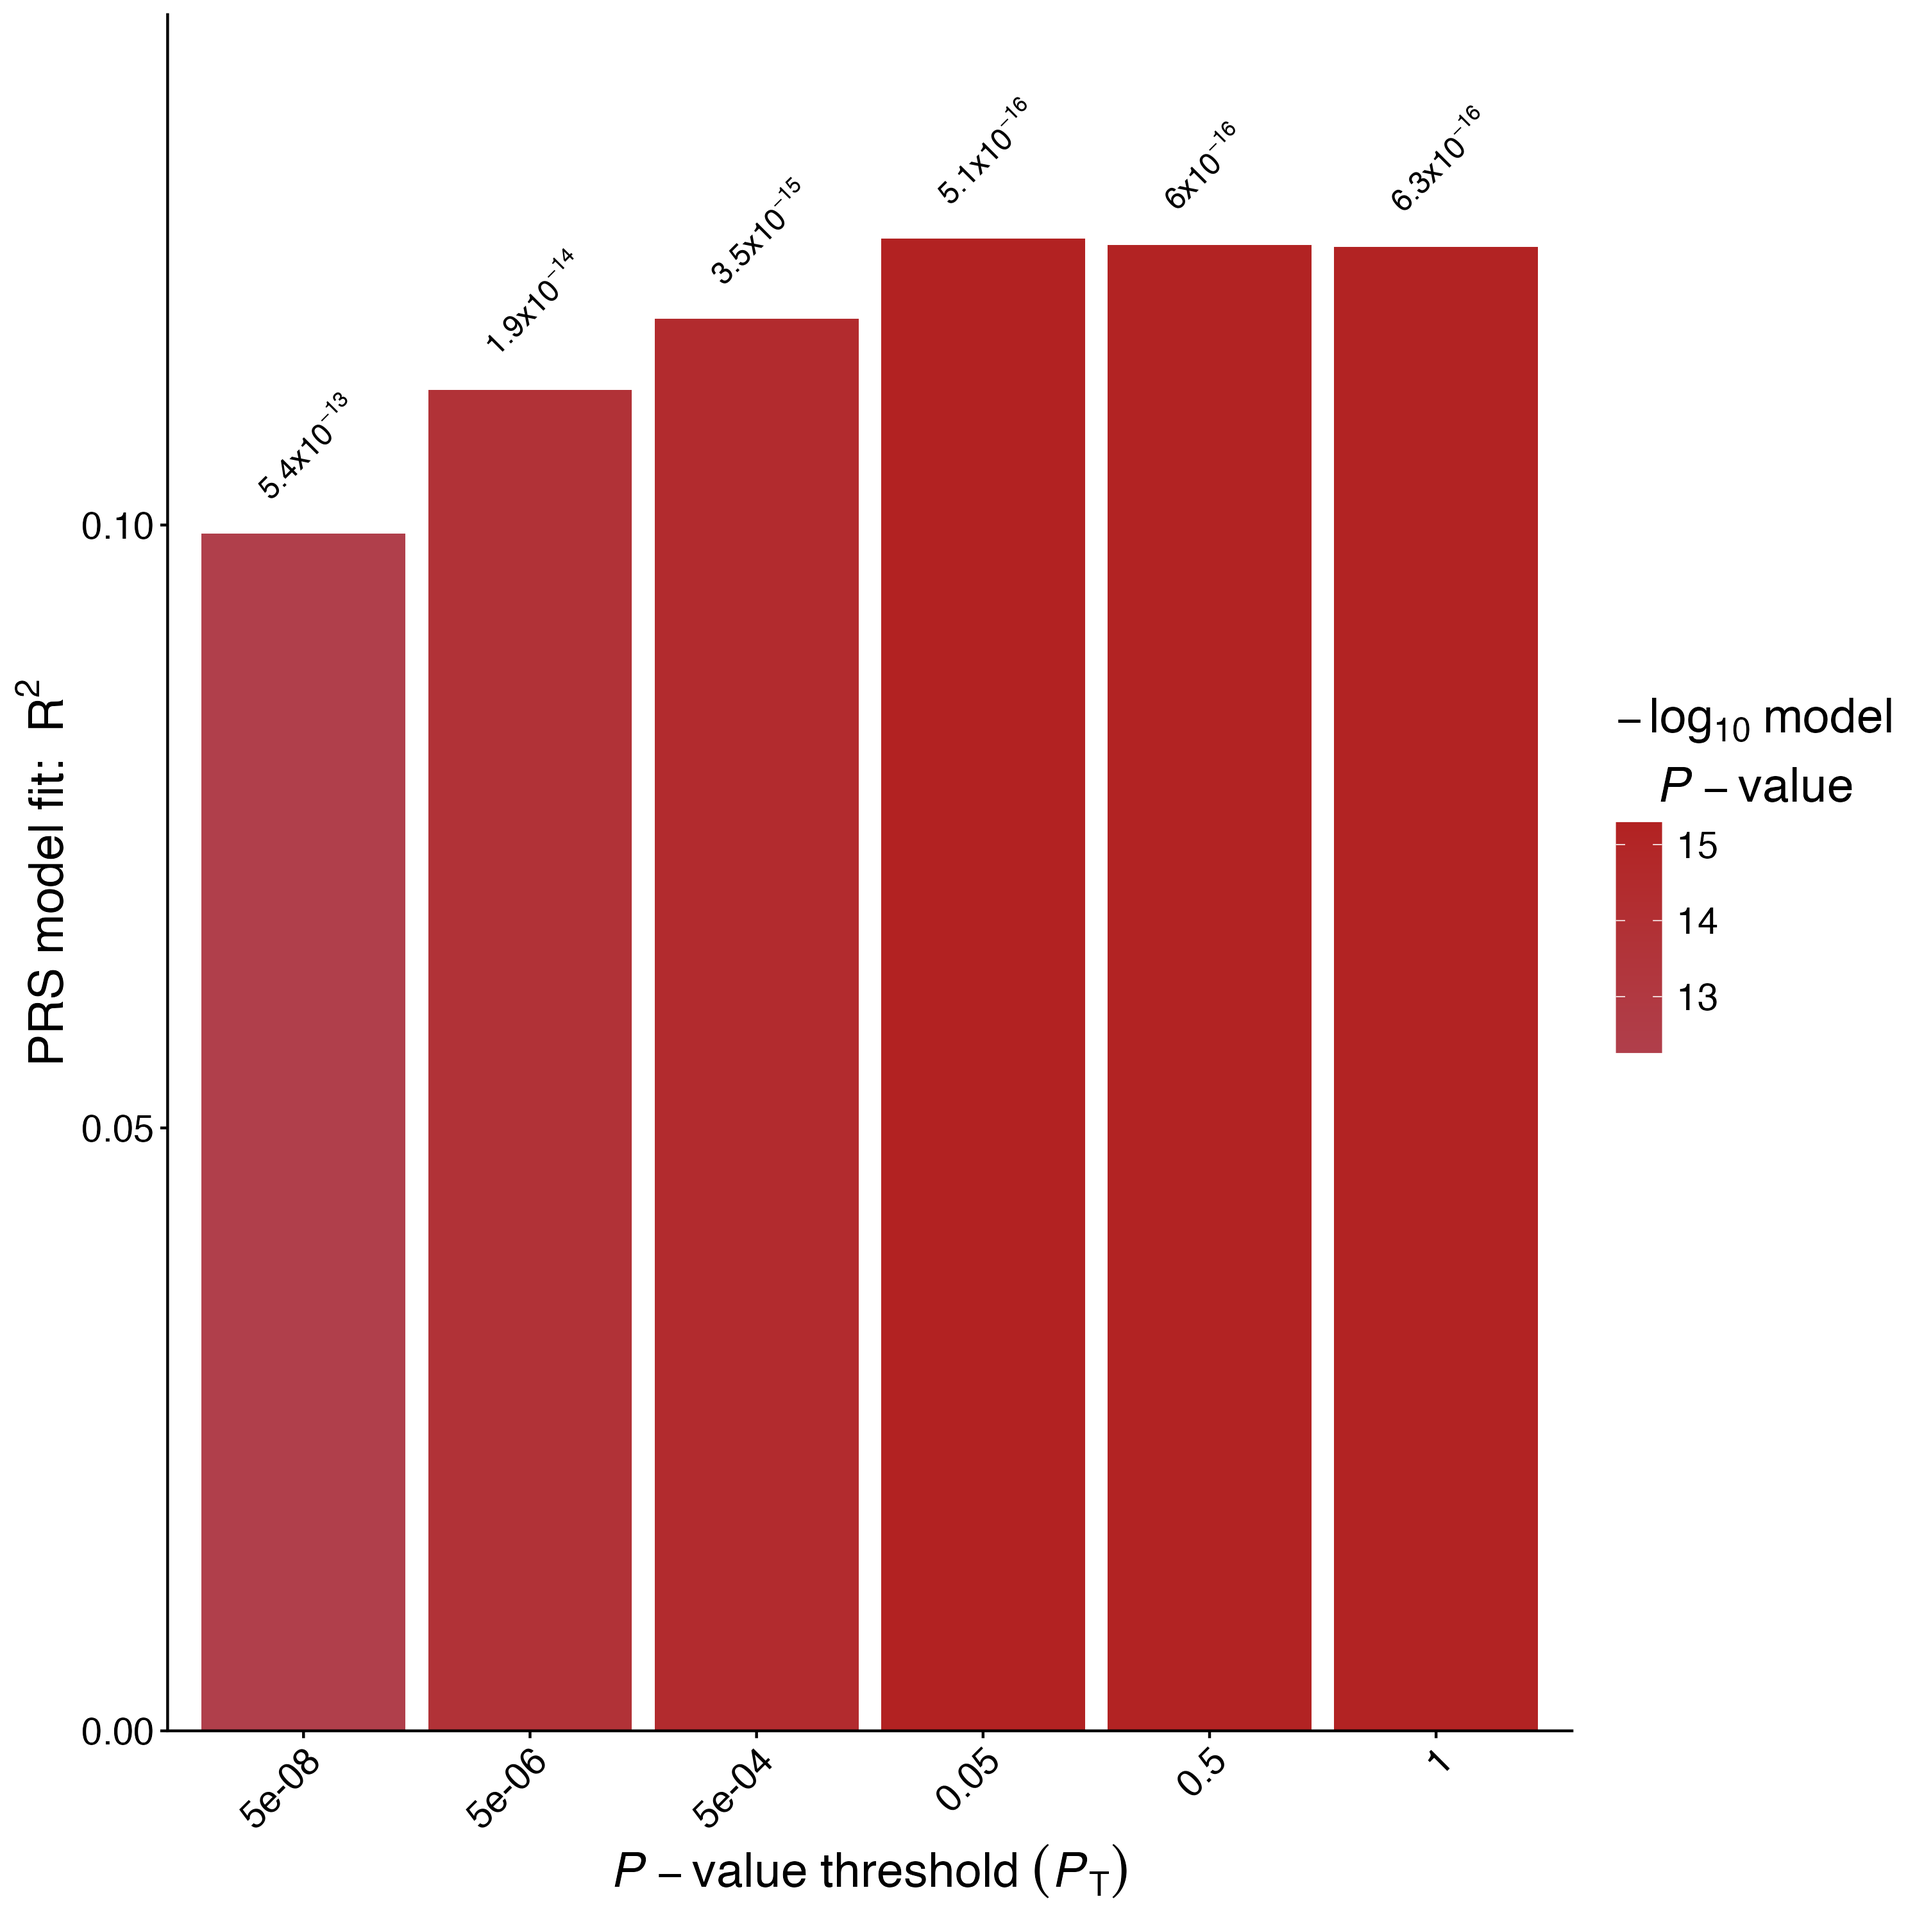
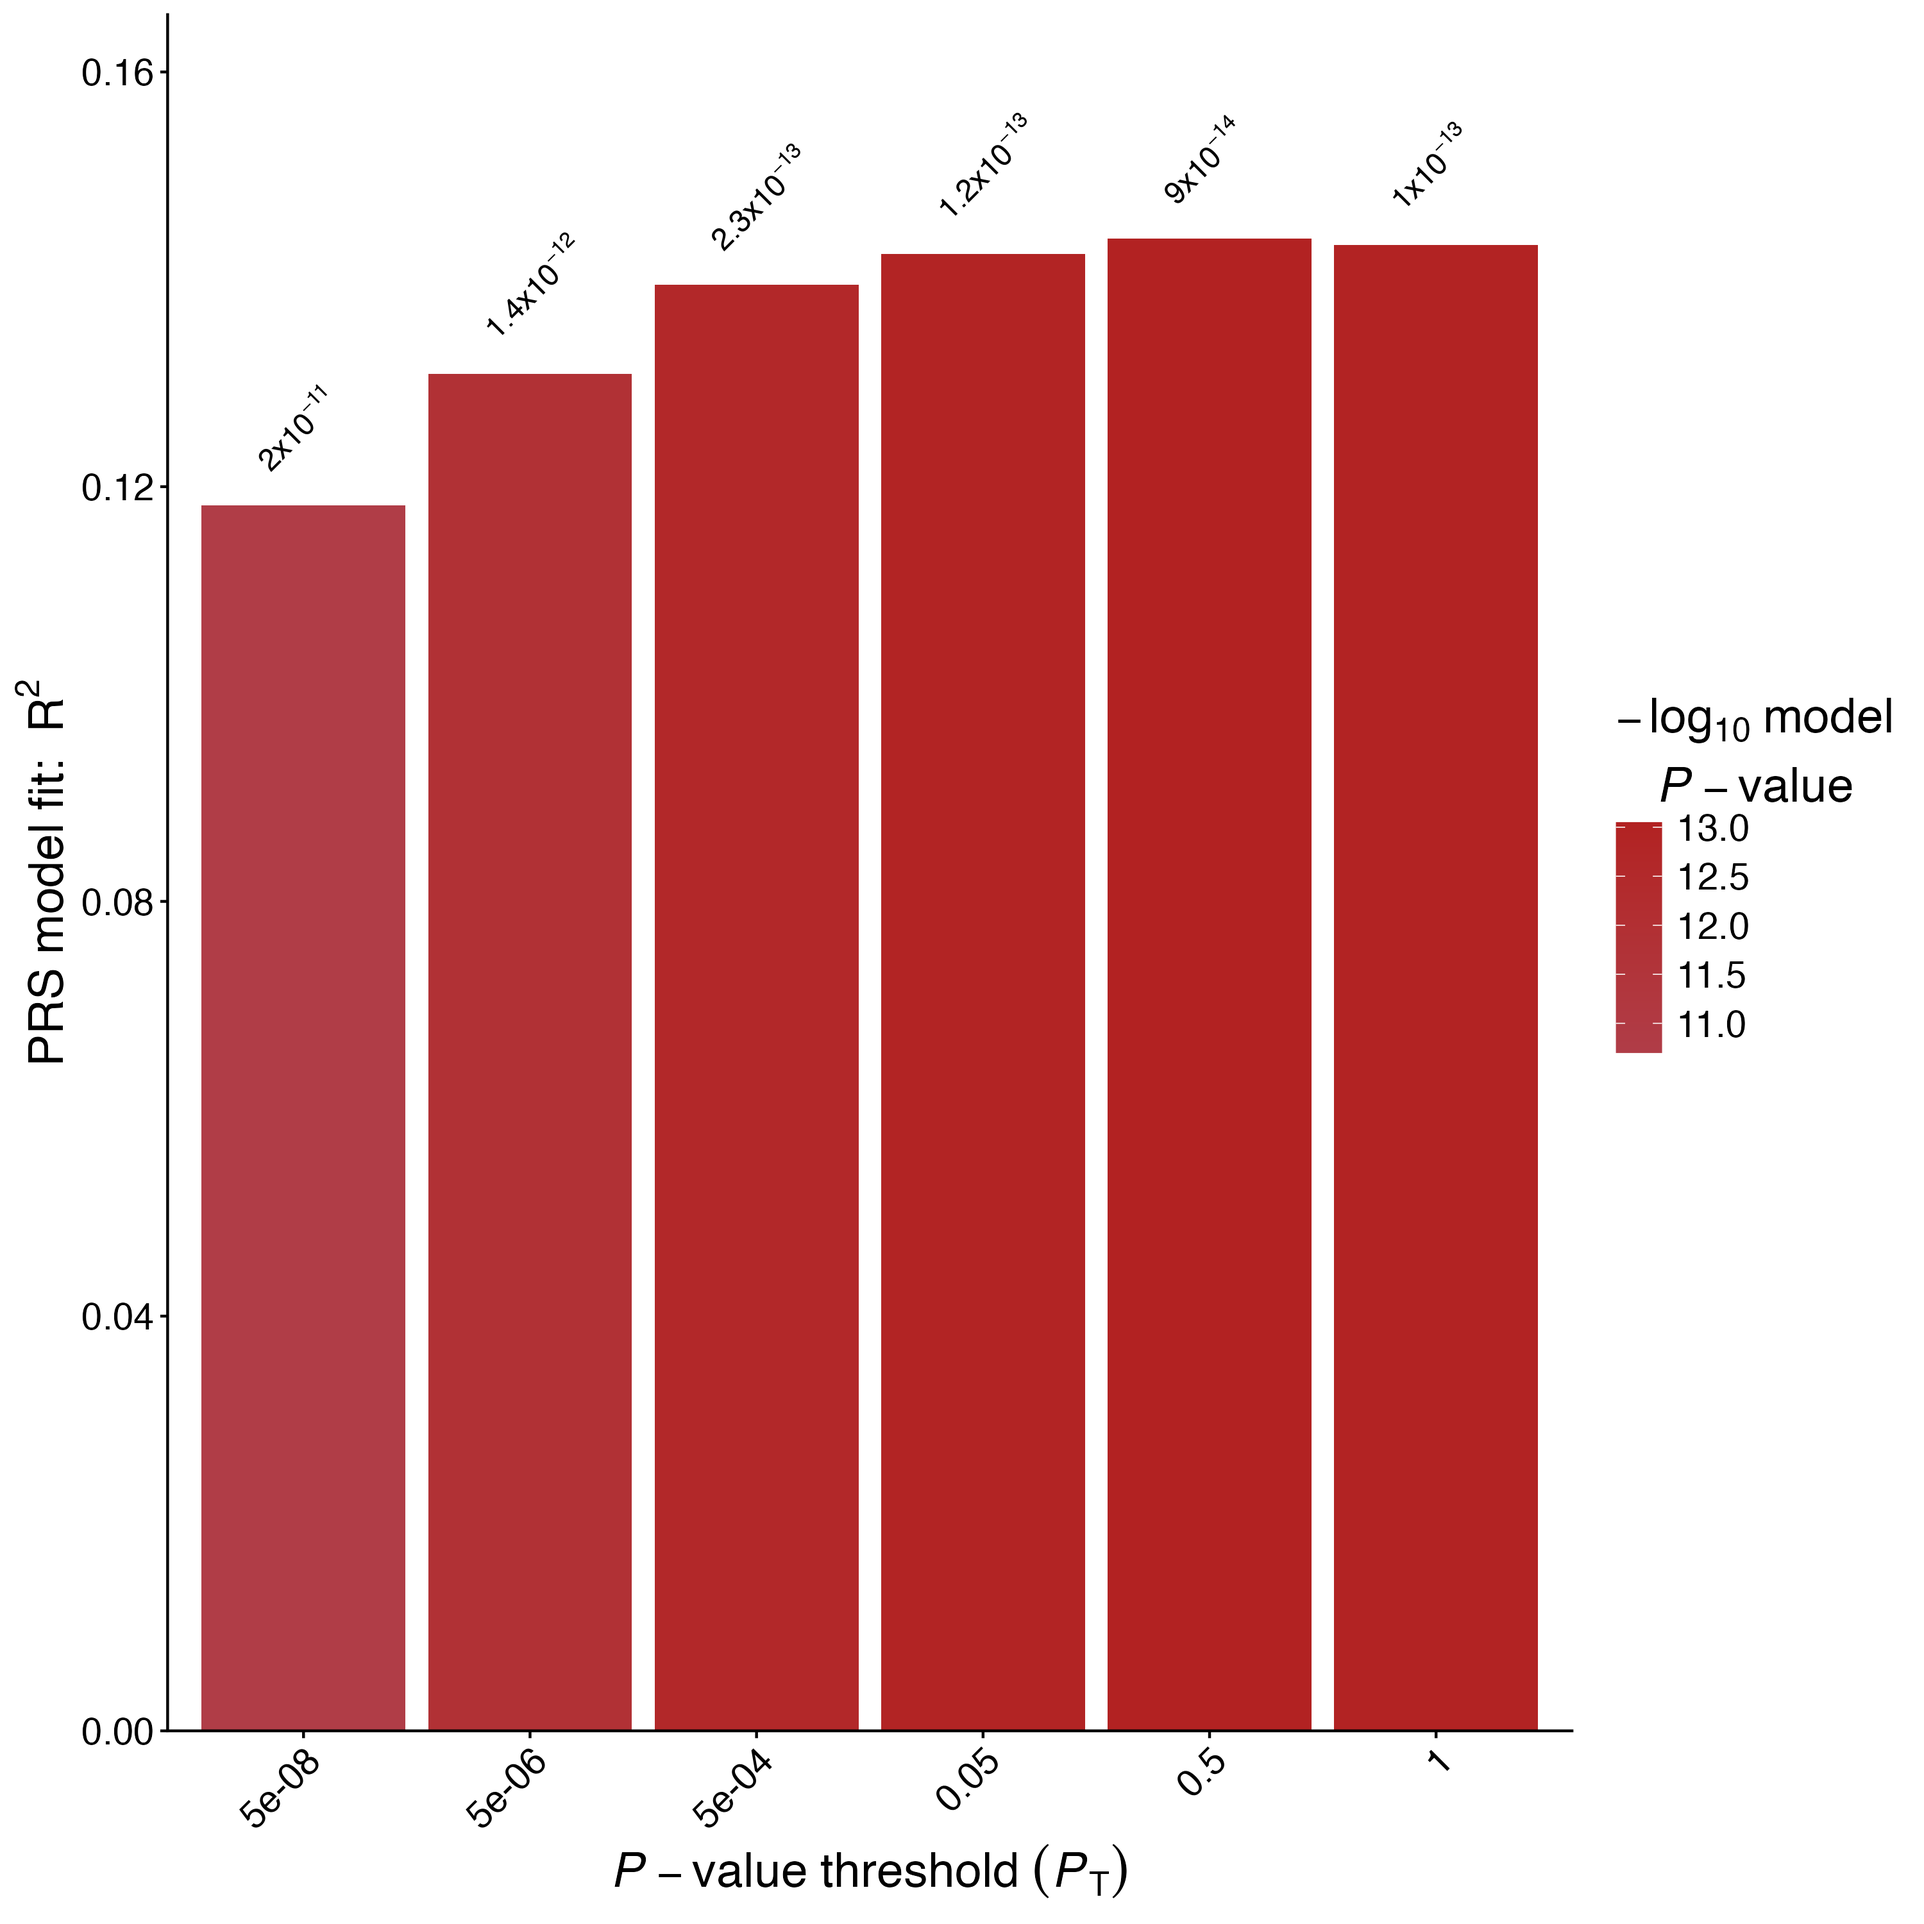
Lab 6: fix FID mismatch and add SNP ID alignment step
- Update .fam and .eigenvec files so FID = IID (matches phenotype file)
- Add awk step in Part II to convert .bim SNP IDs to CHR:POS format
  so they match the Trait2.ma summary statistics
- Refresh barplot figure with new end-to-end results (R² = 14.4%)

diff --git a/labs/week6/lab6.md b/labs/week6/lab6.md
@@ -195,6 +195,23 @@ wc -l ~/Sociogenomics/Data/1kg_hm3_QC_CEU.bim
 wc -l ~/Sociogenomics/Data/1kg_hm3_QC_CEU.fam
 ```
 
+### Align SNP IDs with the summary statistics
+
+Our target `.bim` file uses **rsIDs** (e.g., `rs1048488`), but the `Trait2.ma` summary statistics use **chromosome:position** IDs (e.g., `20:61795`). PRSice cannot match them.
+
+We rename the SNP IDs in the `.bim` file to the `CHR:POS` format with a one-line `awk`:
+
+```bash
+cd ~/Sociogenomics/Data
+awk 'BEGIN{OFS="\t"} {$2=$1":"$4; print}' 1kg_hm3_QC_CEU.bim > 1kg_hm3_QC_CEU.bim.new
+mv 1kg_hm3_QC_CEU.bim.new 1kg_hm3_QC_CEU.bim
+head 1kg_hm3_QC_CEU.bim
+```
+
+The second column is now `chr:pos` and will match the summary statistics.
+
+> **Note:** This kind of ID harmonisation is a routine step in PRS analyses --- summary stats from different sources use different SNP naming conventions.
+
 ---
 
 ## Part III. PGS with PRSice-2
@@ -282,40 +299,12 @@ PRSice automatically produces a barplot of the incremental $R^2$ at each tested 
 
 The best threshold is highlighted in the darker colour. For `Trait2` in our data, the best threshold is around $p < 0.05$ with $R^2 \approx 12\%$.
 
-### High-resolution scan
-
-Run PRSice again without `--fastscore` to scan many thresholds:
-
-```bash
-Rscript PRSice.R --dir . \
-    --prsice ./PRSice_linux \
-    --base ~/Sociogenomics/Data/Trait2.ma \
-    --target ~/Sociogenomics/Data/1kg_hm3_QC_CEU \
-    --snp SNP \
-    --A1 A1 \
-    --A2 A2 \
-    --stat BETA \
-    --pvalue P \
-    --beta \
-    --pheno ~/Sociogenomics/Data/1kg.Trait2.phen \
-    --binary-target F \
-    --interval 5e-05 \
-    --lower 0.0001 \
-    --out ~/Sociogenomics/Results/Trait2_PRSice_hires
-```
-
-This scans thresholds from $p = 10^{-4}$ upward in steps of $5\times10^{-5}$ and produces a continuous plot:
-
-![PRSice high-resolution plot: R² as a function of the p-value threshold](figures/PRSice_highres.png)
-
-The peak identifies the optimal threshold for this trait and dataset.
-
 ### Exercise 2
 
 1. What is the best $p$-value threshold for Trait2?
 2. How many SNPs are included at that threshold?
 3. What is the $R^2$ of the best PGS?
-4. Look at the barplot and high-res plot. Does $R^2$ rise monotonically with threshold?
+4. Look at the barplot. Does $R^2$ rise monotonically with threshold?
 
 ---
 
